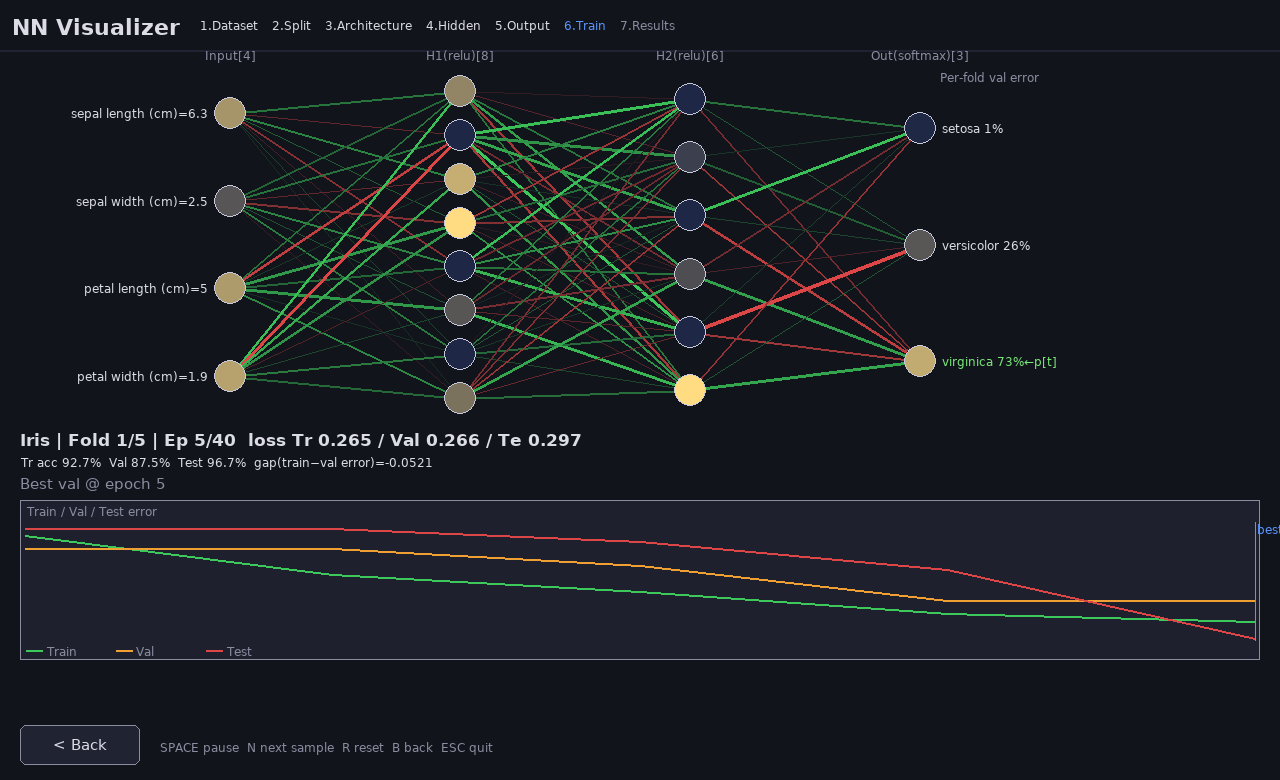
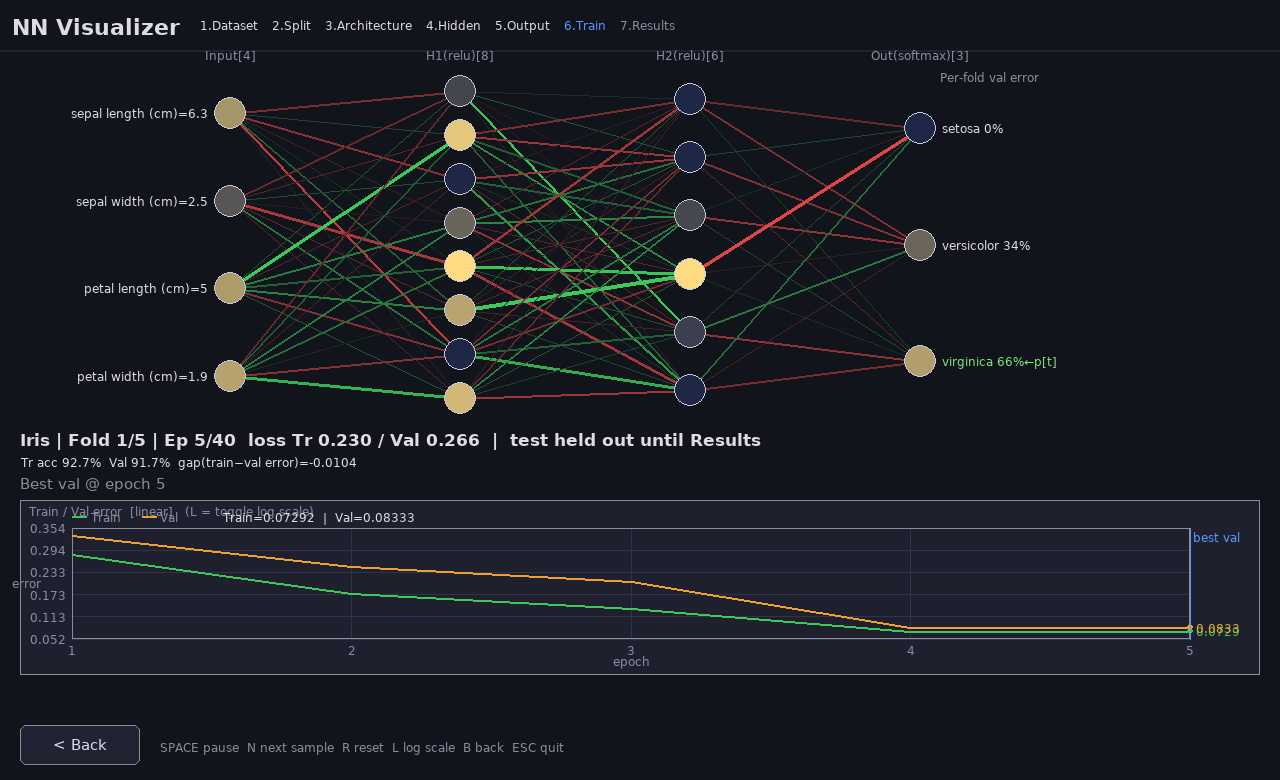
Improve error plot axes and hide test during training by default
Add grid, numeric ticks, axis titles, end-value labels and log-scale (L).
Test is evaluated once on the final model at Results; optional didactic
peeking toggle on the Split step defaults to OFF.

diff --git a/nn_visualizer.py b/nn_visualizer.py
@@ -44,13 +44,15 @@ class App:
         self.split = SplitConfig(
             mode=args.split, train_pct=args.train_pct, val_pct=args.val_pct,
             test_pct=args.test_pct, k=args.k, test_pct_kfold=args.test_pct_kfold,
-            stratified=args.stratified and True, seed=args.seed)
+            stratified=args.stratified and True, seed=args.seed,
+            show_test_curve=getattr(args, "show_test_curve", False))
         self.select_dataset(args.dataset)
         self.n_hidden = 2
         self.hidden = [{"units": 8, "act": "relu"}, {"units": 6, "act": "relu"}]
         self.selected = {0}
         self.model = None
         self.train_state = None
+        self.log_scale = False  # L key toggles log y-axis on the error plot
 
     # ---------------- configuration ----------------
     def select_dataset(self, name):
@@ -214,10 +216,13 @@ class App:
 
         tr_l, tr_m = self._eval(self.X_tr, self.y_tr)
         va_l, va_m = self._eval(self.X_va, self.y_va)
-        te_l, te_m = self._eval(self.X_te, self.y_te)  # display only — never for selection
         st["epoch"] += 1
-        st["train_losses"].append(tr_l); st["val_losses"].append(va_l); st["test_losses"].append(te_l)
-        st["train_metrics"].append(tr_m); st["val_metrics"].append(va_m); st["test_metrics"].append(te_m)
+        st["train_losses"].append(tr_l); st["val_losses"].append(va_l)
+        st["train_metrics"].append(tr_m); st["val_metrics"].append(va_m)
+        # Test curve only if didactic peeking is enabled (never used for model selection).
+        if self.split.show_test_curve:
+            te_l, te_m = self._eval(self.X_te, self.y_te)
+            st["test_losses"].append(te_l); st["test_metrics"].append(te_m)
 
         # Best epoch by validation loss (model selection — test never used)
         if va_l < st["best_val"] - 1e-9:
@@ -242,9 +247,12 @@ class App:
         st = self.train_state
         if st["phase"] == "holdout":
             st["final_train"] = self._display_error(st["train_losses"][-1], st["train_metrics"][-1])
-            st["final_val"] = self._display_error(st["val_losses"][st["best_epoch"] - 1],
-                                                  st["val_metrics"][st["best_epoch"] - 1])
-            st["final_test"] = self._display_error(st["test_losses"][-1], st["test_metrics"][-1])
+            be = max(1, st["best_epoch"])
+            st["final_val"] = self._display_error(st["val_losses"][be - 1], st["val_metrics"][be - 1])
+            # Evaluate test exactly once on the final model (never during training by default).
+            te_l, te_m = self._eval(self.X_te, self.y_te)
+            st["final_test"] = self._display_error(te_l, te_m)
+            st["final_test_loss"], st["final_test_metric"] = te_l, te_m
             st["phase"] = "done"
             self.step = 6
         elif st["phase"] == "fold":
@@ -276,7 +284,9 @@ class App:
         elif st["phase"] == "final":
             st["final_train"] = self._display_error(st["train_losses"][-1], st["train_metrics"][-1])
             st["final_val"] = st["cv_mean"]  # Error_Estimate from CV
-            st["final_test"] = self._display_error(st["test_losses"][-1], st["test_metrics"][-1])
+            te_l, te_m = self._eval(self.X_te, self.y_te)  # once, after final retrain
+            st["final_test"] = self._display_error(te_l, te_m)
+            st["final_test_loss"], st["final_test_metric"] = te_l, te_m
             st["phase"] = "done"
             self.step = 6
 
@@ -430,7 +440,15 @@ class App:
 
         ui.spinner(40, 440, "Random seed", s.seed, lambda v: setattr(s, "seed", v), lo=0, hi=9999)
 
-        self.draw_split_bar(pygame.Rect(40, 500, W - 80, 140))
+        ui.button((520, 440, 420, 36),
+                  f"Show test curve (didactic, peeking): {'ON' if s.show_test_curve else 'OFF'}",
+                  lambda m: setattr(s, "show_test_curve", not s.show_test_curve),
+                  active=s.show_test_curve)
+        ui.text("Default OFF. Peeking at test during training is not proper practice — "
+                "test is evaluated once at the end.",
+                (520, 482), (240, 160, 100) if s.show_test_curve else DIM, ui.small)
+
+        self.draw_split_bar(pygame.Rect(40, 520, W - 80, 130))
         ok = not self.split.validate(self.ds.task)
         self.nav(next_enabled=ok)
 
@@ -515,33 +533,107 @@ class App:
         half = (MAX_DRAWN - 1) // 2
         return list(range(half)) + [None] + list(range(n - (MAX_DRAWN - 1 - half), n))
 
-    def draw_curves(self, r, series, labels, colors, best_epoch=0):
-        """Multi-series line chart with legend. series = list of float lists (errors or losses)."""
+    def draw_curves(self, r, series, labels, colors, best_epoch=0, log_scale=False):
+        """Error chart with grid, axis ticks/titles, end-value labels, optional log y-scale."""
+        ui = self.ui
         pygame.draw.rect(self.screen, (30, 33, 45), r)
         pygame.draw.rect(self.screen, DIM, r, 1)
-        self.ui.text("Train / Val / Test error", (r.x + 6, r.y + 4), DIM, self.ui.small)
-        usable = [s for s in series if len(s) >= 2]
+        title = "Train / Val error" + (" / Test (peeking)" if any(
+            lab.lower().startswith("test") for lab in labels) else "")
+        title += "  [log]" if log_scale else "  [linear]"
+        ui.text(title + "   (L = toggle log scale)", (r.x + 8, r.y + 4), DIM, ui.small)
+
+        pad_l, pad_r, pad_t, pad_b = 52, 70, 28, 36
+        plot = pygame.Rect(r.x + pad_l, r.y + pad_t, r.w - pad_l - pad_r, r.h - pad_t - pad_b)
+        usable = [s for s in series if len(s) >= 1]
         if not usable:
+            ui.text("Waiting for epochs…", plot.center, DIM, anchor="center")
             return
+
         n = max(len(s) for s in series)
-        allv = np.concatenate([np.asarray(s) for s in usable])
-        lo, hi = float(allv.min()), float(allv.max()) + 1e-8
-        for s, col in zip(series, colors):
-            if len(s) < 2:
+        allv = np.concatenate([np.asarray(s, dtype=float) for s in usable])
+        allv = allv[np.isfinite(allv)]
+        if allv.size == 0:
+            return
+
+        def _fwd(v):
+            v = float(v)
+            if log_scale:
+                return np.log10(max(v, 1e-6))
+            return v
+
+        def _inv(u):
+            return 10 ** u if log_scale else u
+
+        lo_u, hi_u = _fwd(allv.min()), _fwd(allv.max())
+        if hi_u <= lo_u:
+            hi_u = lo_u + (1.0 if not log_scale else 0.5)
+        pad = (hi_u - lo_u) * 0.08
+        lo_u, hi_u = lo_u - pad, hi_u + pad
+        # Error is non-negative; keep linear axis from flooring below 0.
+        if not log_scale and allv.min() >= 0:
+            lo_u = max(0.0, lo_u)
+
+        def y_of(v):
+            u = _fwd(v)
+            return plot.bottom - (u - lo_u) / (hi_u - lo_u) * plot.h
+
+        def x_of(i):
+            return plot.x + (i / max(n - 1, 1)) * plot.w
+
+        # --- grid + y ticks ---
+        n_yt = 5
+        for ti in range(n_yt + 1):
+            u = lo_u + (hi_u - lo_u) * ti / n_yt
+            yy = plot.bottom - ti / n_yt * plot.h
+            pygame.draw.line(self.screen, (48, 52, 68), (plot.x, yy), (plot.right, yy), 1)
+            val = _inv(u)
+            lbl = f"{val:.0e}" if log_scale or val < 0.01 else (f"{val:.3f}" if val < 1 else f"{val:.2f}")
+            ui.text(lbl, (plot.x - 6, yy), DIM, ui.small, anchor="midright")
+
+        # --- x ticks (epochs) ---
+        n_xt = min(6, max(2, n))
+        for ti in range(n_xt):
+            ep = 1 + int(round(ti * (n - 1) / max(n_xt - 1, 1)))
+            xx = x_of(ep - 1)
+            pygame.draw.line(self.screen, (48, 52, 68), (xx, plot.y), (xx, plot.bottom), 1)
+            ui.text(str(ep), (xx, plot.bottom + 4), DIM, ui.small, anchor="midtop")
+
+        pygame.draw.rect(self.screen, DIM, plot, 1)
+        ui.text("epoch", (plot.centerx, r.bottom - 14), DIM, ui.small, anchor="center")
+        # Rotated-ish y title (drawn vertically as stacked letters is ugly; use short label)
+        ui.text("error", (r.x + 6, plot.centery), DIM, ui.small, anchor="center")
+
+        # --- series ---
+        for s, col, lab in zip(series, colors, labels):
+            if len(s) < 1:
                 continue
-            pts = [(r.x + 5 + i * (r.w - 10) / max(n - 1, 1),
-                    r.bottom - 22 - (v - lo) / (hi - lo) * (r.h - 50))
-                   for i, v in enumerate(s)]
-            pygame.draw.lines(self.screen, col, False, pts, 2)
+            pts = [(x_of(i), y_of(v)) for i, v in enumerate(s)]
+            if len(pts) >= 2:
+                pygame.draw.lines(self.screen, col, False, pts, 2)
+            else:
+                pygame.draw.circle(self.screen, col, (int(pts[0][0]), int(pts[0][1])), 3)
+            # End-value label
+            lx, ly = pts[-1]
+            ui.text(f"{s[-1]:.3g}", (lx + 6, ly), col, ui.small, anchor="midleft")
+            pygame.draw.circle(self.screen, col, (int(lx), int(ly)), 3)
+
         if best_epoch > 0 and n > 1:
-            bx = r.x + 5 + (best_epoch - 1) * (r.w - 10) / max(n - 1, 1)
-            pygame.draw.line(self.screen, ACCENT, (bx, r.y + 22), (bx, r.bottom - 20), 1)
-            self.ui.text("best val", (bx + 2, r.y + 22), ACCENT, self.ui.small)
-        lx = r.x + 6
-        for lab, col in zip(labels, colors):
-            pygame.draw.line(self.screen, col, (lx, r.bottom - 10), (lx + 16, r.bottom - 10), 2)
-            self.ui.text(lab, (lx + 20, r.bottom - 16), DIM, self.ui.small)
-            lx += 90
+            bx = x_of(best_epoch - 1)
+            pygame.draw.line(self.screen, ACCENT, (bx, plot.y), (bx, plot.bottom), 1)
+            ui.text("best val", (bx + 3, plot.y + 2), ACCENT, ui.small)
+
+        # Legend + last-value readout
+        lx = plot.x
+        readout = []
+        for lab, col, s in zip(labels, colors, series):
+            pygame.draw.line(self.screen, col, (lx, r.y + 16), (lx + 14, r.y + 16), 2)
+            ui.text(lab, (lx + 18, r.y + 10), DIM, ui.small)
+            if s:
+                readout.append(f"{lab}={s[-1]:.4g}")
+            lx += 70
+        if readout:
+            ui.text("  |  ".join(readout), (lx + 10, r.y + 10), TEXT, ui.small)
 
     def draw_train(self):
         ui, d, st, p = self.ui, self.ds, self.train_state, self.p
@@ -631,22 +723,30 @@ class App:
         else:
             phase = "Hold-out"
         status = "PAUSED" if st["paused"] else phase
+        peek = self.split.show_test_curve
         if d.task == "regression":
-            mtxt = (f"Tr MAE {st['train_metrics'][-1]:.3g}  Val MAE {st['val_metrics'][-1]:.3g}  "
-                    f"Test MAE {st['test_metrics'][-1]:.3g}" if st["train_metrics"] else "")
+            mtxt = (f"Tr MAE {st['train_metrics'][-1]:.3g}  Val MAE {st['val_metrics'][-1]:.3g}"
+                    if st["train_metrics"] else "")
+            if peek and st["test_metrics"]:
+                mtxt += f"  Test MAE {st['test_metrics'][-1]:.3g} (peeking)"
         else:
-            mtxt = (f"Tr acc {st['train_metrics'][-1]*100:.1f}%  Val {st['val_metrics'][-1]*100:.1f}%  "
-                    f"Test {st['test_metrics'][-1]*100:.1f}%" if st["train_metrics"] else "")
+            mtxt = (f"Tr acc {st['train_metrics'][-1]*100:.1f}%  Val {st['val_metrics'][-1]*100:.1f}%"
+                    if st["train_metrics"] else "")
+            if peek and st["test_metrics"]:
+                mtxt += f"  Test {st['test_metrics'][-1]*100:.1f}% (peeking)"
         gap = ""
         if st["train_losses"]:
             te = self._display_error(st["train_losses"][-1], st["train_metrics"][-1])
             ve = self._display_error(st["val_losses"][-1], st["val_metrics"][-1])
             gap = f"  gap(train−val error)={te - ve:+.4f}"
-        ui.text(f"{d.name} | {status} | Ep {st['epoch']}/{self.args.epochs}  "
-                f"loss Tr {st['train_losses'][-1] if st['train_losses'] else 0:.3f} / "
-                f"Val {st['val_losses'][-1] if st['val_losses'] else 0:.3f} / "
-                f"Te {st['test_losses'][-1] if st['test_losses'] else 0:.3f}",
-                (20, 430), font=self.med)
+        loss_line = (f"{d.name} | {status} | Ep {st['epoch']}/{self.args.epochs}  "
+                     f"loss Tr {st['train_losses'][-1] if st['train_losses'] else 0:.3f} / "
+                     f"Val {st['val_losses'][-1] if st['val_losses'] else 0:.3f}")
+        if peek and st["test_losses"]:
+            loss_line += f" / Te {st['test_losses'][-1]:.3f} (peek)"
+        else:
+            loss_line += "  |  test held out until Results"
+        ui.text(loss_line, (20, 430), font=self.med)
         ui.text(mtxt + gap, (20, 455), TEXT, ui.small)
         ui.text(f"Best val @ epoch {st['best_epoch']}" + ("   ⚠ Overfitting?" if st["overfit"] else ""),
                 (20, 475), (240, 180, 80) if st["overfit"] else DIM)
@@ -661,18 +761,19 @@ class App:
                 ui.text(f"Error_Estimate = {st['cv_mean']:.4f} ± {st['cv_std']:.4f}",
                         (tx, ty + 18 + len(st['fold_val_errors']) * 16 + 4), ACCENT, ui.small)
 
-        # Error curves (use display-error so train/val/test are comparable)
+        # Error curves: train + val always; test only if didactic peeking is on.
         err_tr = [self._display_error(a, b) for a, b in zip(st["train_losses"], st["train_metrics"])]
         err_va = [self._display_error(a, b) for a, b in zip(st["val_losses"], st["val_metrics"])]
-        err_te = [self._display_error(a, b) for a, b in zip(st["test_losses"], st["test_metrics"])]
-        self.draw_curves(pygame.Rect(20, 500, W - 40, 160),
-                         [err_tr, err_va, err_te],
-                         ["Train", "Val", "Test"],
-                         [COL_TRAIN, COL_VAL, COL_TEST],
-                         st["best_epoch"])
+        series, labels, colors = [err_tr, err_va], ["Train", "Val"], [COL_TRAIN, COL_VAL]
+        if self.split.show_test_curve and st["test_losses"]:
+            err_te = [self._display_error(a, b) for a, b in zip(st["test_losses"], st["test_metrics"])]
+            series.append(err_te); labels.append("Test*"); colors.append(COL_TEST)
+        self.draw_curves(pygame.Rect(20, 500, W - 40, 175),
+                         series, labels, colors, st["best_epoch"], log_scale=self.log_scale)
 
         ui.button((20, H - 55, 120, 40), "< Back", lambda m: self.go(4))
-        ui.text("SPACE pause  N next sample  R reset  B back  ESC quit", (160, H - 40), DIM, ui.small)
+        ui.text("SPACE pause  N next sample  R reset  L log scale  B back  ESC quit",
+                (160, H - 40), DIM, ui.small)
 
     def draw_results(self):
         ui, st, d = self.ui, self.train_state, self.ds
@@ -683,7 +784,8 @@ class App:
             return
 
         kind = "error (1 − accuracy)" if d.task != "regression" else "error (loss / MSE)"
-        ui.text(f"Lower is better — {kind}. Test was never used for training or model selection.",
+        ui.text(f"Lower is better — {kind}. Test evaluated once on the final model "
+                "(never used for training or model selection).",
                 (40, 110), DIM)
 
         vals = [("Train", st["final_train"], COL_TRAIN),
@@ -742,6 +844,8 @@ class App:
                 elif e.key == pygame.K_n: st["sample"] = (st["sample"] + 1) % max(1, len(self.X_va))
                 elif e.key == pygame.K_r:
                     self.start_training()
+                elif e.key == pygame.K_l:
+                    self.log_scale = not self.log_scale
                 elif e.key == pygame.K_b: self.go(4)
             elif e.key == pygame.K_RETURN and self.step < 5:
                 self.go(self.step + 1)
@@ -847,7 +951,8 @@ class AutoScript:
             if st["train_losses"]:
                 st["final_train"] = a._display_error(st["train_losses"][-1], st["train_metrics"][-1])
                 st["final_val"] = a._display_error(st["val_losses"][-1], st["val_metrics"][-1])
-                st["final_test"] = a._display_error(st["test_losses"][-1], st["test_metrics"][-1])
+                te_l, te_m = a._eval(a.X_te, a.y_te)
+                st["final_test"] = a._display_error(te_l, te_m)
                 if mode == "kfold" and st["cv_mean"] is None and st["fold_val_errors"]:
                     errs = np.array(st["fold_val_errors"])
                     st["cv_mean"], st["cv_std"] = float(errs.mean()), float(errs.std())
@@ -876,5 +981,7 @@ if __name__ == "__main__":
     g = ap.add_mutually_exclusive_group()
     g.add_argument("--stratified", dest="stratified", action="store_true", default=True)
     g.add_argument("--no-stratified", dest="stratified", action="store_false")
+    ap.add_argument("--show-test-curve", action="store_true", default=False,
+                    help="Didactic: plot test during training (default off)")
     App(ap.parse_args()).run()
     sys.exit(0)

diff --git a/datasets.py b/datasets.py
@@ -31,6 +31,8 @@ class SplitConfig:
     test_pct_kfold: int = 20
     stratified: bool = True
     seed: int = 42
+    # Didactic only: plot test during training (default OFF — not proper practice)
+    show_test_curve: bool = False
 
     def validate(self, task):
         errs = []

diff --git a/README.md b/README.md
@@ -35,6 +35,8 @@ The held-out **test set is never used for training or model selection**.
 - **K-fold CV:** a held-out test % is removed first; the remaining pool is split into K folds (optionally **stratified**). Each fold is validation once.  
   `Error_Estimate = mean(val errors)` (± std). Then a **final model** is retrained on the whole train pool and evaluated on the untouched test set.
 - **Stratified** preserves class ratios (classification only).
+- **Show test curve (didactic, peeking)** is **OFF by default**. During training only Train and Val (or fold-val) are plotted; test is evaluated **once** on the final model at the Results screen. Enabling the toggle peeks at test during training — not proper practice.
+- Error plot: grid, axis ticks/titles, end-value labels, last-value readout; press **L** for log scale.
 
 ![K-fold training](screenshots/6_train_kfold_iris.png)
 ![Results](screenshots/7_results_kfold_iris.png)
@@ -62,6 +64,7 @@ python nn_visualizer.py
 | `--test-pct-kfold N` | Held-out test % for K-fold (default 20) |
 | `--stratified` / `--no-stratified` | Stratified splits (default on; ignored for regression) |
 | `--seed N` | Shuffle seed (default 42) |
+| `--show-test-curve` | Didactic: plot test during training (default off) |
 | `--auto` | Scripted demo: walk wizard, train, save screenshots, exit |
 | `--seconds N` | Soft training-time budget in `--auto` |
 | `--screenshot-dir DIR` | PNG output dir for `--auto` (default `screenshots`) |
@@ -82,6 +85,7 @@ SDL_VIDEODRIVER=dummy python nn_visualizer.py --auto --dataset Diabetes --split 
 | N | Next validation sample |
 | R | Reset training |
 | B / Back | Return to Output step |
+| L | Toggle log / linear y-scale on the error plot |
 | Esc | Quit |
 
 Lines: green = positive weight, red = negative, thicker = larger `|w|`.  
